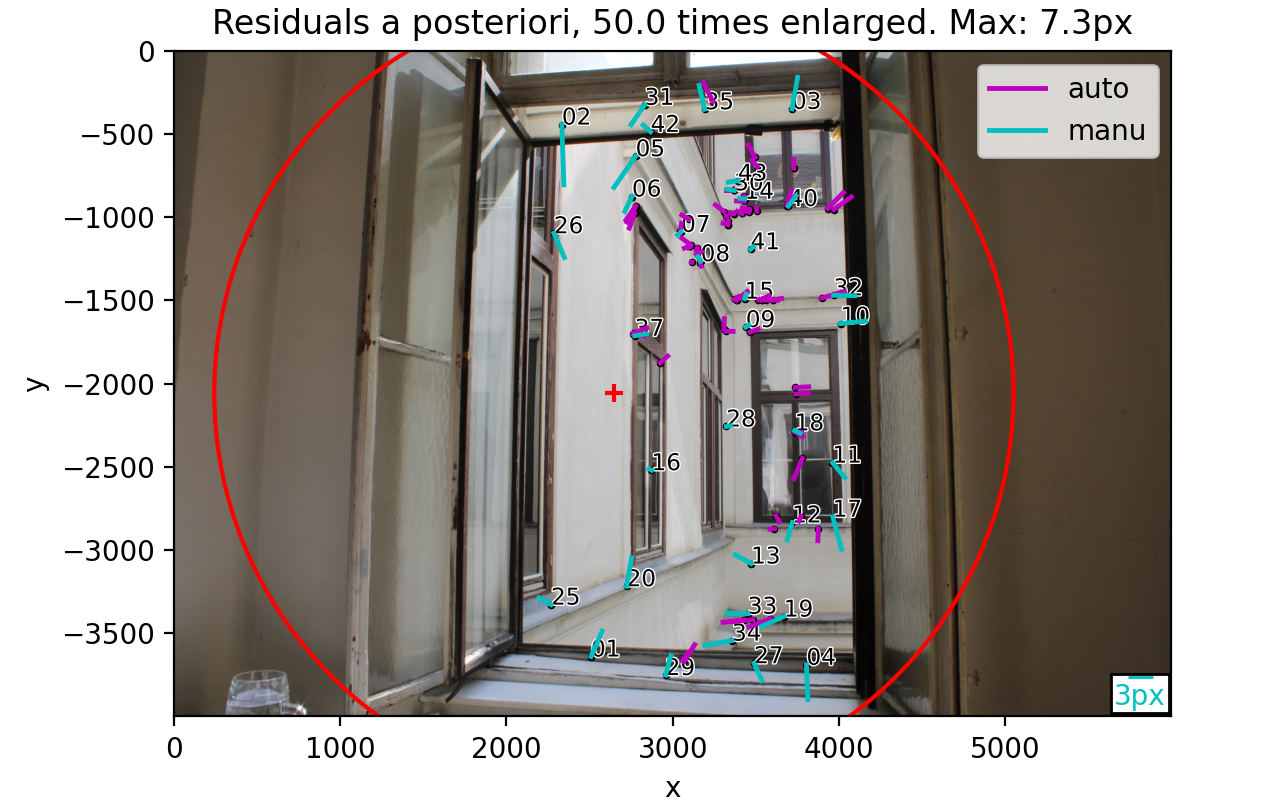
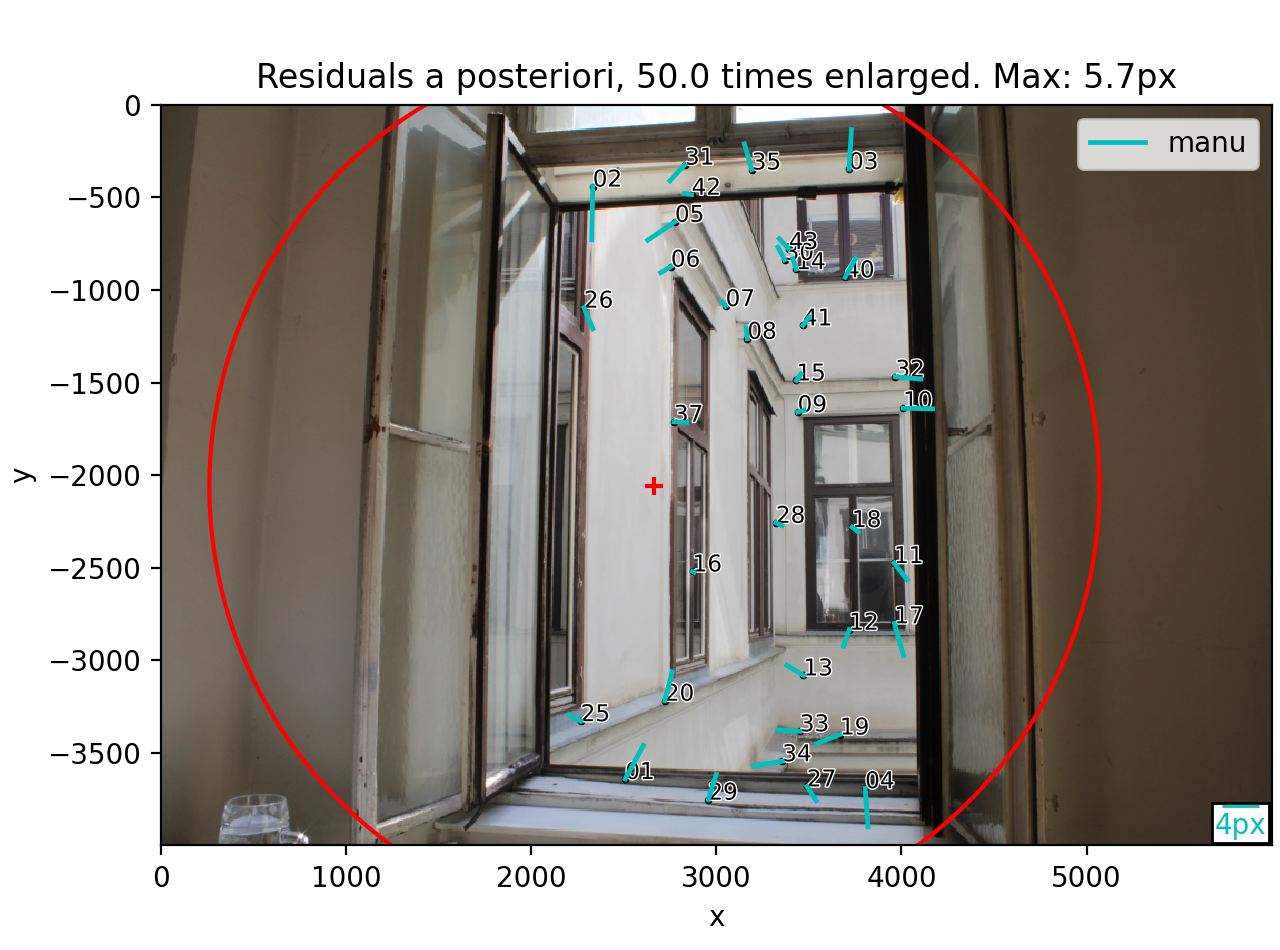
commit before repicking of points

diff --git a/python/buendelblock.py b/python/buendelblock.py
@@ -129,7 +129,7 @@ class PerspectiveCamera( oriental.adjust.cost.AutoDiff ):
             3, # Projection center in the object coordinate system.
             3, # Rotation angles.
             3, # Interior orientation i.e. projection center in the camera coordinate system.
-            4, # TODO Lens distortion parameters, not (yet) used here. Adapt this number to your distortion model.
+            5, # TODO Lens distortion parameters, not (yet) used here. Adapt this number to your distortion model.
             3  # Object point.
         )
         # Hence, `PerspectiveCamera` expects 5 parameter blocks, where each block consists of 3 elements
@@ -206,14 +206,24 @@ class PerspectiveCamera( oriental.adjust.cost.AutoDiff ):
         y_ = y_projected - y_0
         rho = (x_**2 + y_**2) ** (1/2)
 
+        # sensor size 6000 x 4000
+        rho0 = (3000 ** 2 + 2000 ** 2) ** (1/2)
+
         k1 = distortion[0]
         k2 = distortion[1]
-        p1 = distortion[2]
-        p2 = distortion[3]
+        k3 = distortion[2]
+        p1 = distortion[3]
+        p2 = distortion[4]
+
+        delta_x_dist = x_*(k1*(rho**2-rho0**2) + k2 * (rho**4-rho0**4) + k3 * (rho**6-rho0**6)) + \
+                       2 * p1 * x_ * y_ + p2 * (rho ** 2 + 2 * x_ ** 2)
+        delta_y_dist = y_*(k1*(rho**2-rho0**2) + k2 * (rho**4-rho0**4) + k3 * (rho**6-rho0**6))+ \
+                       + p1 * (rho ** 2 + 2 * y_ ** 2) + 2 * p2 * x_ * y_
 
         #Radiale und tangeniale Verzeichnung beides 3. und 5. Ordnung
-        delta_x_dist = x_*(k1*(rho**2-5000000) + k2 * (rho ** 4-5000000)) + 2 * p1 * x_ * y_ + p2 * (rho ** 2 + 2 * x_ ** 2)
-        delta_y_dist = y_*(k1*(rho**2-5000000) + k2 * (rho ** 4-5000000)) + p1 * (rho ** 2 + 2 * y_ ** 2) + 2 * p2 * x_ * y_
+        # delta_x_dist = x_*(k1*(rho**2-5000000) + k2 * (rho ** 4-5000000)) + 2 * p1 * x_ * y_ + p2 * (rho ** 2 + 2 * x_ ** 2)
+        # delta_y_dist = y_*(k1*(rho**2-5000000) + k2 * (rho ** 4-5000000)) + p1 * (rho ** 2 + 2 * y_ ** 2) + 2 * p2 * x_ * y_
+
         # delta_x_dist = x_ * (k1 * rho ** 2 + k2 * rho ** 4) + 2 * p1 * x_ * y_ + p2 * (rho ** 2 + 2 * x_ ** 2)
         # delta_y_dist = y_ * (k1 * rho ** 2 + k2 * rho ** 4) + 2 * p2 * x_ * y_ + p1 * (rho ** 2 + 2 * y_ ** 2)
 
@@ -768,23 +778,14 @@ def bundleBlock():
 
     # IOR: [26.715 30.741 62.743]
 
-    ior = np.array([+2.64605e+03, -2.05890e+03, +4.95924e+03])
-
-    # IOR from adjustment with correct datum definition (unconstrained)
-    # a priori 3000, -2000, 4833
-    # distortion
-
-    # nach erstem Ausgleich
-    # ior = np.array([+2660.450, -2019.164, +5313.308])
-    # ior = np.array([+2.55446e+03, -1.98994e+03, +5.14975e+03])
-
-    #ior = np.array([+1976.642, -1627.440, +3160.776])
+    ior = np.array([+2.66124e+03, -2.06585e+03, +4.83980e+03])
 
     # TODO Distortion parameters.
     # Choose an appropriate model.
     # The number of distortion parameters stated here must match the number of distortion parameters that
     # `PerspectiveCamera` expects. The preliminary number given here only serves as a placeholder.
-    distortion = np.array([-1.06494e-08, +7.18140e-16, -9.92606e-07, -4.33932e-07])
+    distortion = np.array([-1.42194e-08, +1.57961e-15, -7.60975e-23, -8.65930e-07, -2.70674e-07])
+
     # np.array([-1.05810e-08, +7.43013e-16, -1.94212e-07, +1.40238e-07])
     # [1.025e-09 1.390e-16 3.008e-07 2.789e-07]
     #distortion = np.array([0., 0., +105.633,  -56.806,   +2.371,   +2.721])
@@ -825,14 +826,14 @@ def bundleBlock():
         # }
 
         projectionCenters = {
-            r'C:\Users\Filz\PycharmProjects\PhotoVertiefungUe\data\IMG_3811.JPG': np.array(
-                [+6.39322e-01, -2.40875e+00, +4.37130e-01]),
-            r'C:\Users\Filz\PycharmProjects\PhotoVertiefungUe\data\IMG_3812.JPG': np.array(
-                [+6.39867e-01, -1.75009e+00, +7.34293e-01]),
-            r'C:\Users\Filz\PycharmProjects\PhotoVertiefungUe\data\IMG_3815.JPG': np.array(
-                [+8.23091e-02, -2.21051e+00, +5.47975e-01]),
-            r'C:\Users\Filz\PycharmProjects\PhotoVertiefungUe\data\IMG_3817.JPG': np.array(
-                [+8.10278e-02, -1.69944e+00, +7.90615e-01])
+            r'C:\Users\marku\Documents\UNI\PhotoVertiefungUe\data\IMG_3811.JPG': np.array(
+                [+6.33802e-01, -2.40045e+00, +4.36501e-01]),
+            r'C:\Users\marku\Documents\UNI\PhotoVertiefungUe\data\IMG_3812.JPG': np.array(
+                [+6.34731e-01, -1.74381e+00, +7.34314e-01]),
+            r'C:\Users\marku\Documents\UNI\PhotoVertiefungUe\data\IMG_3815.JPG': np.array(
+                [+7.81651e-02, -2.20253e+00, +5.46646e-01]),
+            r'C:\Users\marku\Documents\UNI\PhotoVertiefungUe\data\IMG_3817.JPG': np.array(
+                [+7.82526e-02, -1.69157e+00, +7.89037e-01])
         }
 
         # `rotationAngles` contains for each photo the rotation angles.
@@ -850,14 +851,14 @@ def bundleBlock():
         # }
 
         rotationAngles = {
-            r'C:\Users\Filz\PycharmProjects\PhotoVertiefungUe\data\IMG_3811.JPG': np.array(
-                [-8.49022e+01, +1.07926e+02, +1.00697e+02]),
-            r'C:\Users\Filz\PycharmProjects\PhotoVertiefungUe\data\IMG_3812.JPG': np.array(
-                [-8.57618e+01, +1.02326e+02, -2.04879e-02]),
-            r'C:\Users\Filz\PycharmProjects\PhotoVertiefungUe\data\IMG_3815.JPG': np.array(
-                [-1.07155e+02, +1.06672e+02, -1.00477e+02]),
-            r'C:\Users\Filz\PycharmProjects\PhotoVertiefungUe\data\IMG_3817.JPG': np.array(
-                [-1.06145e+02, +9.92276e+01, +1.99397e+02])
+            r'C:\Users\marku\Documents\UNI\PhotoVertiefungUe\data\IMG_3811.JPG': np.array(
+                [-8.51576e+01, +1.07882e+02, +1.00747e+02]),
+            r'C:\Users\marku\Documents\UNI\PhotoVertiefungUe\data\IMG_3812.JPG': np.array(
+                [-8.57572e+01, +1.02160e+02, +6.35086e-02]),
+            r'C:\Users\marku\Documents\UNI\PhotoVertiefungUe\data\IMG_3815.JPG': np.array(
+                [-1.07080e+02, +1.06817e+02, -1.00398e+02]),
+            r'C:\Users\marku\Documents\UNI\PhotoVertiefungUe\data\IMG_3817.JPG': np.array(
+                [-1.06345e+02, +9.94591e+01, +1.99451e+02])
         }
 
     # Using the initial values of interior and exterior orientations,
@@ -892,7 +893,7 @@ def bundleBlock():
                                    distortion,
                                    objPts[ptName])
 
-    if True:
+    if False:
         # TODO Once a good enough interior image orientation is known,
         # automatically compute additional tie points.
         featurePoints, featurePointMatches = getAutomaticTiePoints(list(photo_obs.keys()))
@@ -1061,7 +1062,7 @@ def bundleBlock():
 
         # When shall the iteration loop be terminated?
         # TODO Define an appropriate stopping criterion here and break the loop early as soon as it is met.
-        if np.abs((l.T @ l - residuals_aposteriori.T @ residuals_aposteriori) / (l.T @ l)) < 1e-15:
+        if np.abs((l.T @ l - residuals_aposteriori.T @ residuals_aposteriori) / (l.T @ l)) < 1e-20:
             print('-->')
             print(residuals_aposteriori.T @ residuals_aposteriori - l.T @ l)
             print('Stopping criterion met! Iteration: {}'.format(iIter))
@@ -1127,9 +1128,55 @@ def bundleBlock():
 
 
     # TODO Derive the wanted distances at the object and their precisions.
-    s_01_13 = np.sqrt(np.sum((objPts['01'] - objPts['13'])**2))
+    # ---------------------- 03 - 13 -----------------------------------------------------------------------------------
+    coor_diff = objPts['03'] - objPts['13']
+    s_03_13 = np.sqrt(np.sum(coor_diff**2))
+
+    s = s_03_13
+    A = np.array([[coor_diff[0] / s, coor_diff[1] / s, coor_diff[2] / s, -coor_diff[0] / s, -coor_diff[1] / s,
+                  -coor_diff[2] / s]])
+
+    C_xx_3 = sigma0 ** 2 * Qxx[34:37, 34:37]
+    C_xx_13 = sigma0**2 * Qxx[61:64, 61:64]
+
+    C_xx_3_13 = sigma0**2 * Qxx[34:37, 61:64]
+    C_xx_13_3 = sigma0 ** 2 * Qxx[61:64, 34:37]
+
+    C_xx_comb = np.vstack((
+        np.hstack((C_xx_3, C_xx_3_13)),
+        np.hstack((C_xx_13_3, C_xx_13))
+    ))
+
+    std_s_03_13 = np.sqrt(A @ C_xx_comb @ A.T)
+    print("Strecke 03-13: {}".format(s_03_13))
+    print("STD Strecke 03-13: {}".format(std_s_03_13))
+
+    # ---------------------- 40 - 12 -----------------------------------------------------------------------------------
+    coor_diff = objPts['12'] - objPts['40']
+    s_12_40 = np.sqrt(np.sum(coor_diff ** 2))
+
+    s = s_12_40
+    A = np.array([[coor_diff[0] / s, coor_diff[1] / s, coor_diff[2] / s, -coor_diff[0] / s, -coor_diff[1] / s,
+                   -coor_diff[2] / s]])
+
+    C_xx_12 = sigma0 ** 2 * Qxx[58:61, 58:61]
+    C_xx_40 = sigma0 ** 2 * Qxx[124:127, 124:127]
+
+    C_xx_12_40 = sigma0 ** 2 * Qxx[58:61, 124:127]
+    C_xx_40_12 = sigma0 ** 2 * Qxx[124:127, 58:61]
+
+    C_xx_comb = np.vstack((
+        np.hstack((C_xx_12, C_xx_12_40)),
+        np.hstack((C_xx_40_12, C_xx_40))
+    ))
+
+    std_s_12_40 = np.sqrt(A @ C_xx_comb @ A.T)
+    print("Strecke 12-40: {}".format(s_12_40))
+    print("STD Strecke 12-40: {}".format(std_s_12_40))
 
 
 if __name__ == '__main__':
     bundleBlock()
     input('Hit key to exit')
+
+

diff --git a/plot_distortion.py b/plot_distortion.py
@@ -1,0 +1,35 @@
+import numpy as np
+import matplotlib.pyplot as plt
+
+sensor_size = (6000, 4000)
+
+x = np.arange(-sensor_size[0]/2, sensor_size[0]/2, 1)
+y = np.arange(-sensor_size[1]/2, sensor_size[1]/2, 1)
+
+xx, yy = np.meshgrid(x, y)
+rho = (xx**2 + yy**2) ** (1/2)
+
+rho0 = (3000 ** 2 + 2000 ** 2) ** (1 / 2)
+
+k1, k2, k3, p1, p2 = (+4.38471e-09, +4.01227e-16, -4.26485e-23, -1.02340e-06, -4.16125e-07)
+
+delta_x_dist = xx * (k1 * (rho - rho0) ** 2 + k2 * (rho - rho0) ** 4 + k3 * (rho - rho0) ** 6) + \
+               2 * p1 * xx * yy + p2 * (rho ** 2 + 2 * xx ** 2)
+delta_y_dist = yy * (k1 * (rho - rho0) ** 2 + k2 * (rho - rho0) ** 4 + k3 * (rho - rho0) ** 6) + \
+               + p1 * (rho ** 2 + 2 * yy ** 2) + 2 * p2 * xx * yy
+
+# plt.matshow(delta_x_dist, cmap="PRGn")
+# plt.colorbar()
+#
+# plt.matshow(delta_y_dist, cmap="PRGn")
+# plt.colorbar()
+
+total_correction = (delta_x_dist ** 2 + delta_y_dist ** 2) ** (1/2)
+plt.matshow(total_correction)
+cb = plt.colorbar()
+cb.set_label("Betrag der Verzeichnungskorrektur [px]")
+
+# plt.figure()
+# plt.quiver(xx, yy, delta_x_dist, delta_y_dist)
+
+plt.show()

diff --git a/test.py b/test.py
@@ -1,0 +1,6 @@
+import numpy as np
+
+foo = np.array([[1,2,3],[4, 5, 6], [7, 8, 9]])
+
+print(foo[1:3, 1:3])
+print(foo[(1, 2), (1,2)])
